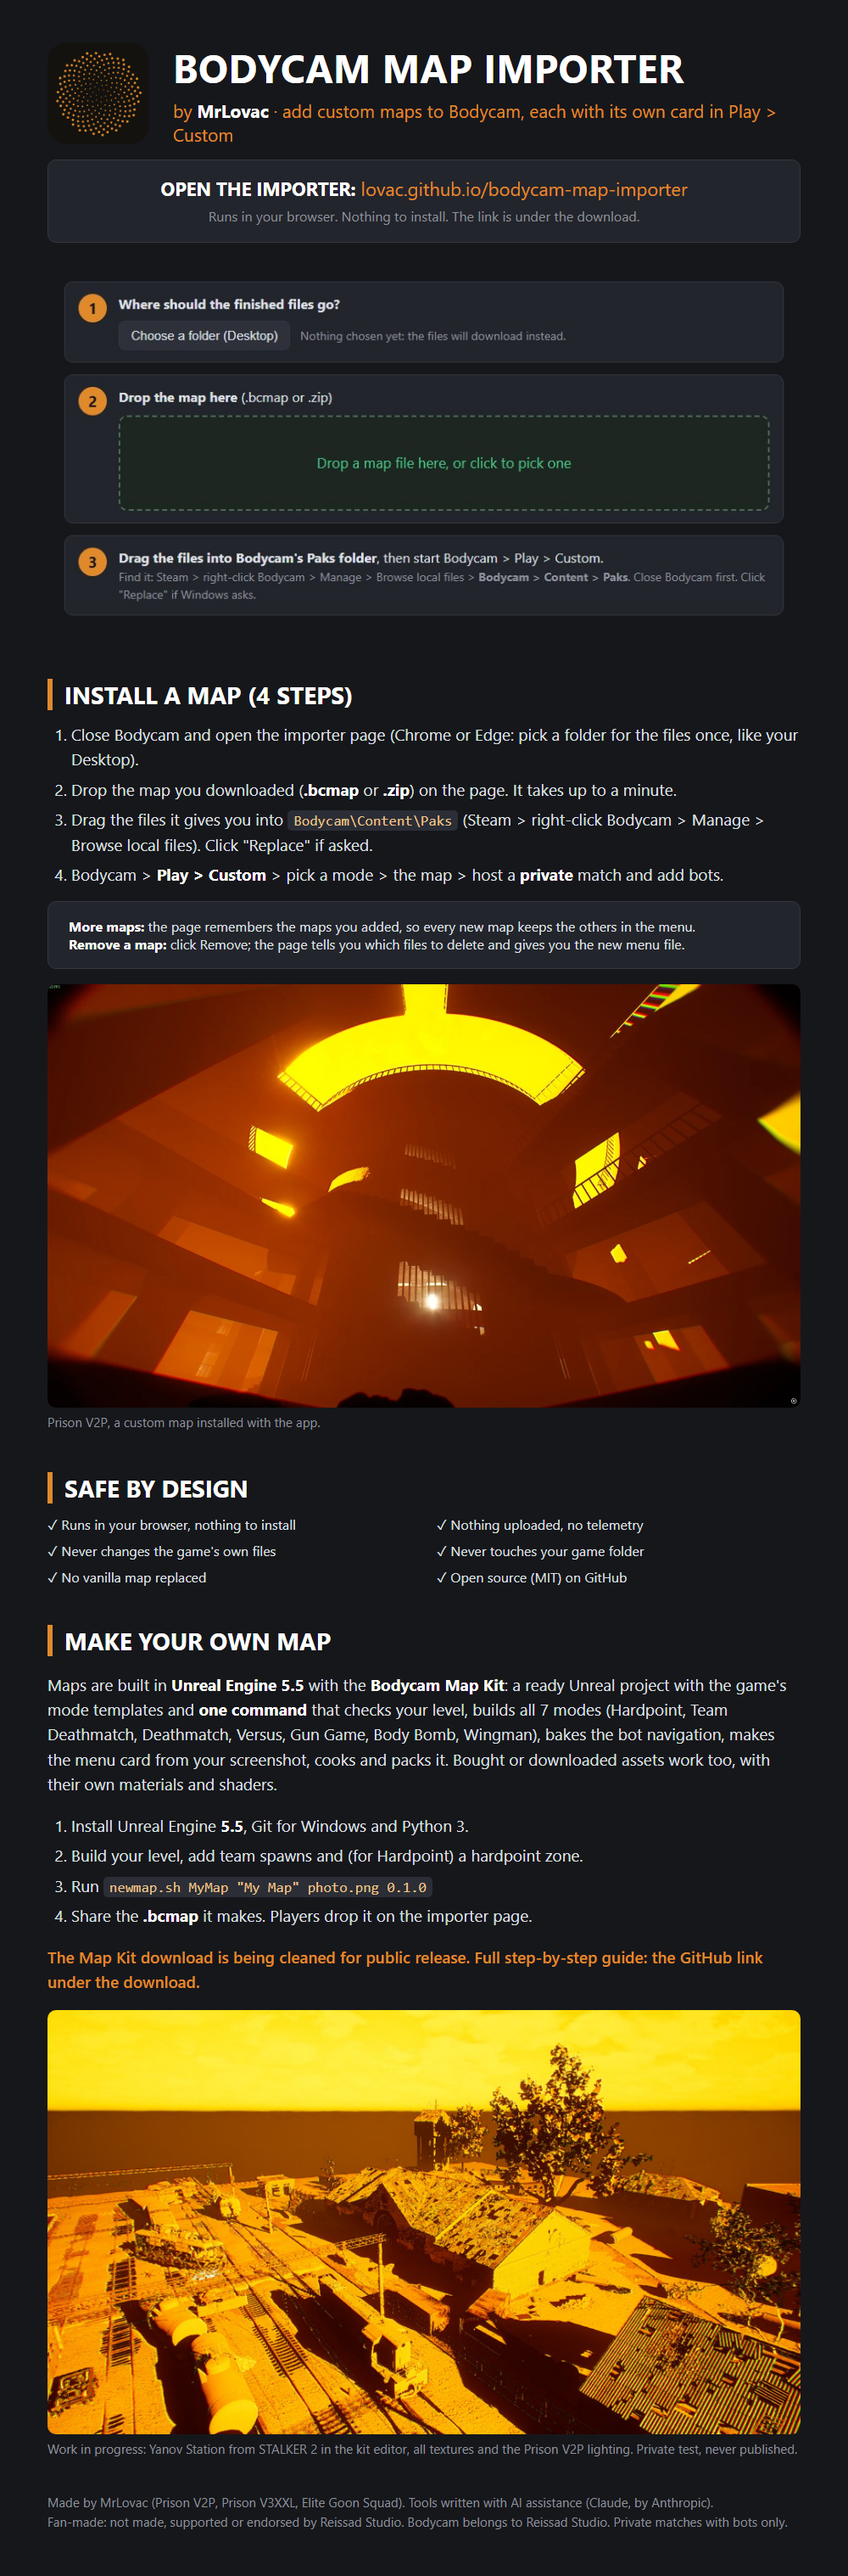
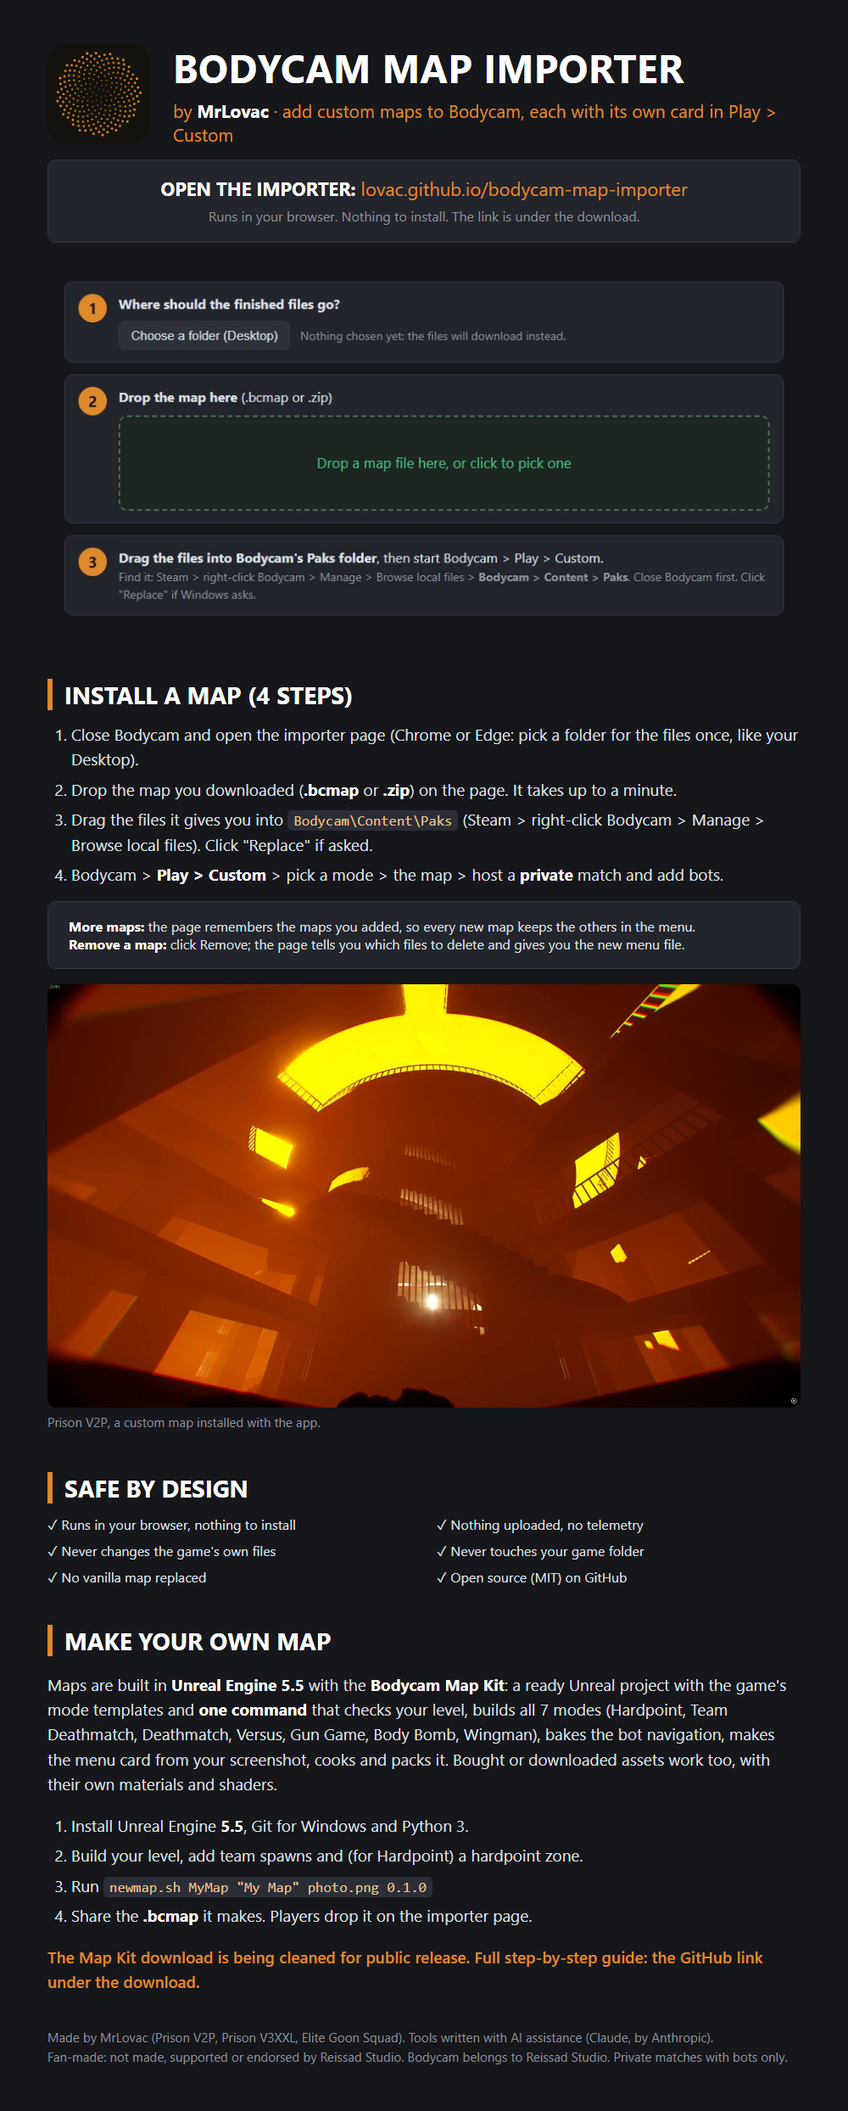
Remove the Yanov images: the orange lighting hid missing textures

diff --git a/docs/nexus/guide.html b/docs/nexus/guide.html
@@ -74,9 +74,6 @@ cooks and packs it. Bought or downloaded assets work too, with their own materia
 </ol>
 <p class="soon">The Map Kit download is being cleaned for public release. Full step-by-step guide: the GitHub link under the download.</p>
 
-<img class="shot" src="../stalker2_yanov_overview_editor.jpg" alt="">
-<p class="cap">Work in progress: Yanov Station from STALKER 2 in the kit editor, all textures and the Prison V2P lighting. Private test, never published.</p>
-
 <div class="foot">
   Made by MrLovac (Prison V2P, Prison V3XXL, Elite Goon Squad). Tools written with AI assistance (Claude, by Anthropic).<br>
   Fan-made: not made, supported or endorsed by Reissad Studio. Bodycam belongs to Reissad Studio. Private matches with bots only.

diff --git a/README.md b/README.md
@@ -107,15 +107,6 @@ Inside, walkable, in a Bodycam match:
 
 <p align="center"><img src="docs/stalker2_bar_interior.jpg" width="720" alt="Inside the Zalissya bar in Bodycam"></p>
 
-Second test, Yanov Station, a bigger area (station, rail yard, trains, trees), the same steps. Every object placed
-where STALKER has it, every material rebuilt with its own textures (the ones the mod kit could not export came
-from the installed game), and the evening sun, fog and exposure of Prison V2P. In the kit editor:
-
-<p align="center"><img src="docs/stalker2_yanov_overview_editor.jpg" width="720" alt="Yanov Station in the kit editor, rail yard side"></p>
-
-<p align="center"><img src="docs/stalker2_yanov_overview_east_editor.jpg" width="720" alt="Yanov Station in the kit editor, from the east"></p>
-
-
 These STALKER 2 tests were never published and never will be.
 
 ## What the app does not do
